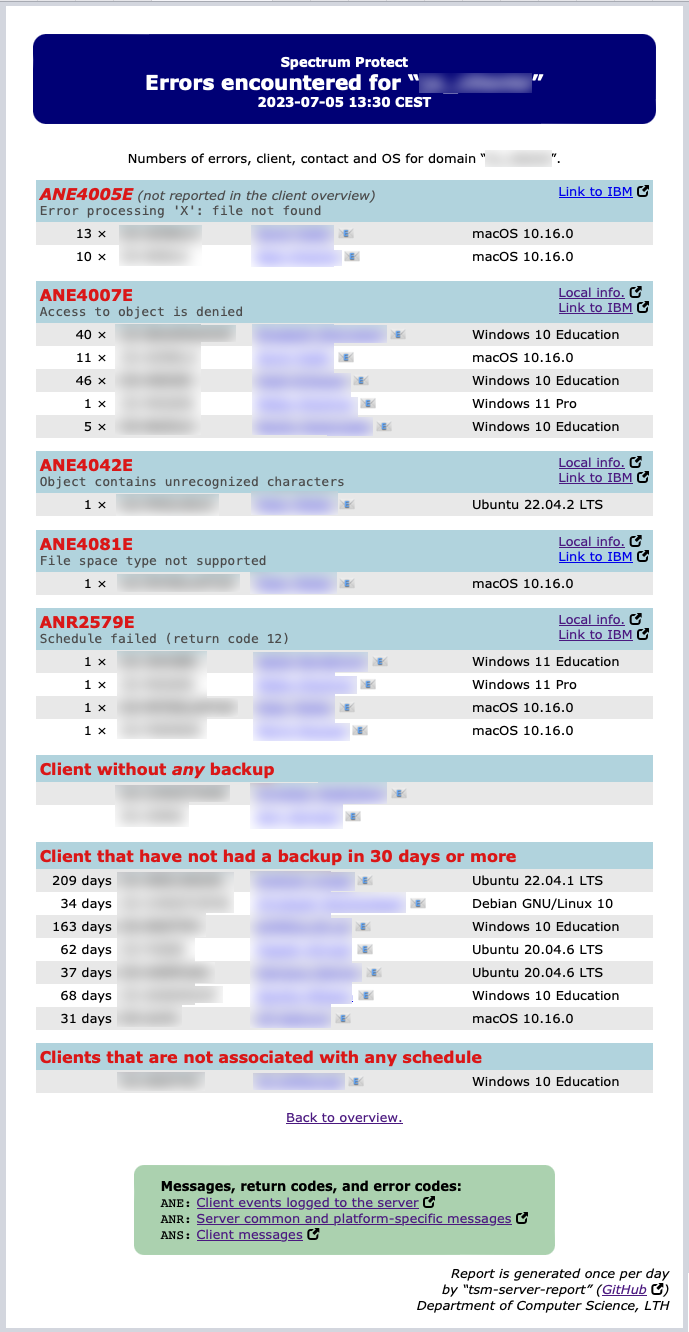
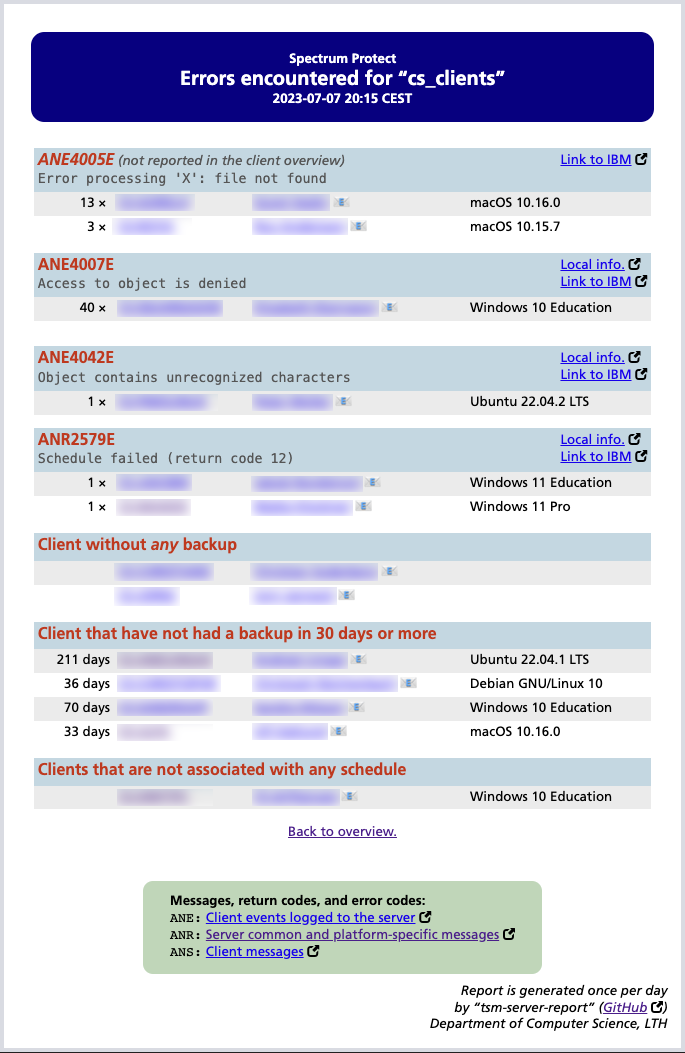
Minor updates to the examples

diff --git a/errors_head.html b/errors_head.html
@@ -109,4 +109,4 @@
 			</div>
         </section>
         <section>
-            <p align="center">Numbers of errors, client, contact and OS for domain “DOMAIN”.</p>
+            <!--<p align="center">Numbers of errors, client, contact and OS for domain “DOMAIN”.</p>-->
